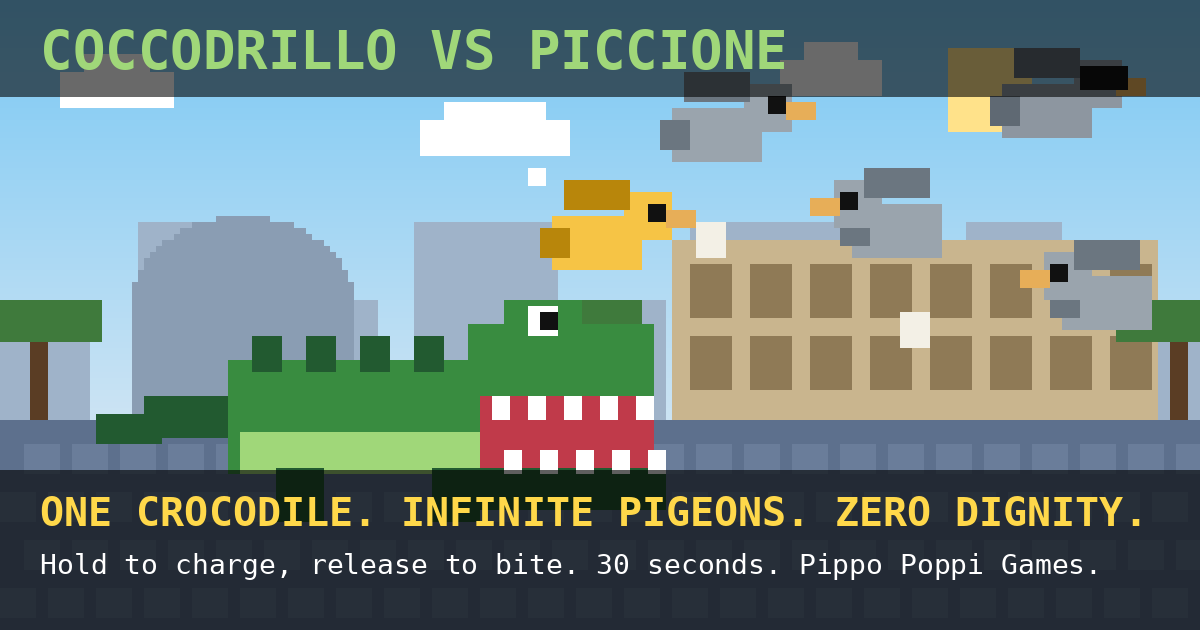
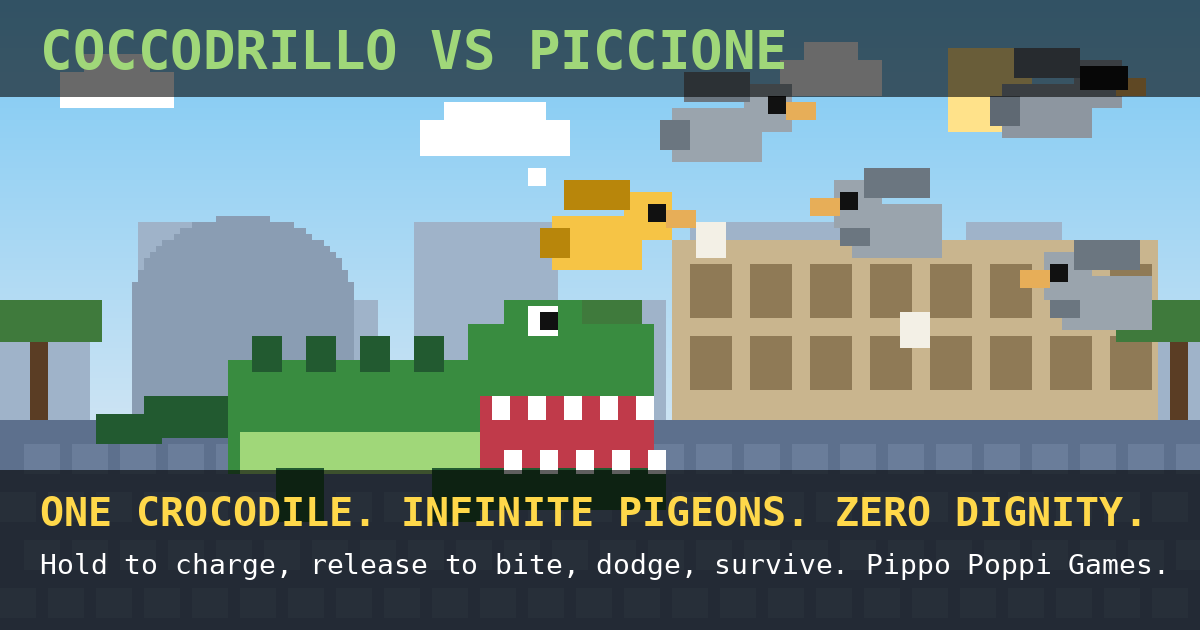
Survival mode: no round timer, difficulty ramps forever
The game ends only when the last heart is lost. Elapsed time replaces
the countdown, the inferno starts at 45s and never stops, and the
result screen and X challenge include time survived. Best time saved.

Changed region(s): [[0.4933, 0.8746, 0.9558, 0.9349]]

diff --git a/game.js b/game.js
@@ -1,4 +1,4 @@
-/* Coccodrillo vs Piccione — a 30-second one-button arcade game. Pippo Poppi Games. MIT licence. */
+/* Coccodrillo vs Piccione — a one-button survival arcade game. Pippo Poppi Games. MIT licence. */
 (() => {
 'use strict';
 
@@ -9,7 +9,8 @@ const GROUND = 302;            // where the crocodile stands
 const CROC_X = 100;            // starting x
 const CROC_S = 0.65;           // crocodile size
 const CROC_MIN = 24, CROC_MAX = W - 24;
-const ROUND = 30;              // seconds per game
+const RAMP = 60;               // seconds over which the difficulty climbs to full
+const INFERNO_AT = 45;         // seconds after which the inferno never stops
 const SAVE_KEY = 'crocvspigeon.v1';
 const SITE_URL = (location.origin + location.pathname).replace(/index\.html$/, '');
 const TAU = 6.2832;
@@ -25,7 +26,7 @@ const PIGEONS = {
 
 // ---------- save ----------
 function loadSave() {
-  const d = { best: 0, bestEaten: 0, games: 0, sound: true };
+  const d = { best: 0, bestEaten: 0, bestTime: 0, games: 0, sound: true };
   try { const s = JSON.parse(localStorage.getItem(SAVE_KEY)); if (s) Object.assign(d, s); } catch (e) { /* no storage */ }
   return d;
 }
@@ -72,14 +73,14 @@ function sfxBoss() { tone(90, 0.5, 'sawtooth', 0.08, 50); tone(70, 0.5, 'sawtoot
 
 // ---------- state ----------
 const G = {
-  state: 'title', t: 0, left: ROUND, score: 0, eaten: 0, combo: 0, best: 0, hearts: 3,
+  state: 'title', t: 0, score: 0, eaten: 0, combo: 0, best: 0, hearts: 3,
   croc: { x: CROC_X, y: GROUND, vy: 0, air: false, charge: 0, charging: false, mouth: 0, bite: 0, hurt: 0, ate: 0 },
   birds: [], poops: [], parts: [], floats: [], spawnT: 1.2, bossT: 14, bossDone: 0, shake: 0, flash: 0, lastTick: 31, inferno: false, msg: null, msgT: 0,
   clouds: Array.from({ length: 5 }, (_, i) => ({ x: i * 50 + rnd(0, 30), y: 20 + rnd(0, 50), w: 18 + rnd(0, 18) })),
 };
 
 function startGame() {
-  G.state = 'play'; G.t = 0; G.left = ROUND; G.score = 0; G.eaten = 0; G.combo = 0; G.hearts = 3;
+  G.state = 'play'; G.t = 0; G.score = 0; G.eaten = 0; G.combo = 0; G.hearts = 3;
   G.croc = { x: CROC_X, y: GROUND, vy: 0, air: false, charge: 0, charging: false, mouth: 0, bite: 0, hurt: 0, ate: 0 };
   G.birds = []; G.poops = []; G.parts = []; G.floats = []; G.spawnT = 0.6; G.bossT = 14; G.bossDone = 0; G.shake = 0; G.flash = 0; G.lastTick = 31; G.inferno = false; G.msg = null;
   save.games++; persist();
@@ -89,8 +90,8 @@ function startGame() {
 function spawnBird(type) {
   const P = PIGEONS[type];
   const fromLeft = Math.random() < 0.5;
-  const diff = G.t / ROUND;
-  const base = 38 + diff * 34 + (G.inferno ? 18 : 0);
+  const diff = Math.min(1, G.t / RAMP);
+  const base = 38 + diff * 34 + (G.inferno ? 18 : 0) + Math.min(30, Math.max(0, G.t - RAMP) * 0.25);
   const b = { type, x: fromLeft ? -20 : W + 20, dir: fromLeft ? 1 : -1, y: P.boss ? 120 : rnd(90, 240), baseY: 0, r: P.r, hp: P.hp, maxHp: P.hp,
     speed: base * P.speed * rnd(0.85, 1.15), ph: Math.random() * TAU, bombT: rnd(0.4, 1.2), dodgeT: 0, dead: false, hit: 0 };
   b.baseY = b.y;
@@ -99,7 +100,7 @@ function spawnBird(type) {
   else if (P.golden) { G.msg = 'PICCIONE D’ORO!'; G.msgT = 1.2; sfxGold(); }
 }
 function pickType() {
-  const r = Math.random(), late = G.t > ROUND * 0.4;
+  const r = Math.random(), late = G.t > 20;
   if (r < 0.03) return 'golden';
   if (r < (late ? 0.28 : 0.14)) return 'maranza';
   if (r < (late ? 0.5 : 0.3)) return 'bomber';
@@ -144,12 +145,12 @@ function hurt() {
 
 // ---------- simulation ----------
 function update(dt) {
-  G.t += dt; G.left -= dt;
+  G.t += dt;
   G.shake = Math.max(0, G.shake - dt * 3); G.flash = Math.max(0, G.flash - dt * 2);
   if (G.msgT > 0) { G.msgT -= dt; if (G.msgT <= 0) G.msg = null; }
   for (const cl of G.clouds) { cl.x += 3 * dt; if (cl.x > W + 30) cl.x = -40; }
-  if (!G.inferno && G.left <= 10) { G.inferno = true; G.msg = 'ULTIMI 10 SECONDI: INFERNO!'; G.msgT = 1.6; tone(200, 0.4, 'sawtooth', 0.07, 400); }
-  if (G.left <= 10 && Math.ceil(G.left) < G.lastTick) { G.lastTick = Math.ceil(G.left); sfxTick(); }
+  if (!G.inferno && G.t >= INFERNO_AT) { G.inferno = true; G.msg = 'INFERNO!'; G.msgT = 1.6; tone(200, 0.4, 'sawtooth', 0.07, 400); }
+  if (G.t >= INFERNO_AT - 5 && G.t < INFERNO_AT && Math.floor(G.t) > G.lastTick) { G.lastTick = Math.floor(G.t); sfxTick(); }
 
   // croc
   const c = G.croc;
@@ -167,8 +168,8 @@ function update(dt) {
   G.spawnT -= dt;
   if (G.spawnT <= 0) {
     spawnBird(pickType());
-    const diff = G.t / ROUND;
-    G.spawnT = (G.inferno ? 0.45 : 1.25 - diff * 0.6) * rnd(0.7, 1.3);
+    const diff = Math.min(1, G.t / RAMP);
+    G.spawnT = (G.inferno ? Math.max(0.3, 0.5 - (G.t - INFERNO_AT) * 0.003) : 1.25 - diff * 0.6) * rnd(0.7, 1.3);
   }
   G.bossT -= dt;
   if (G.bossT <= 0 && !G.birds.some(b => b.type === 'boss')) { spawnBird('boss'); G.bossT = 12; }
@@ -209,13 +210,13 @@ function update(dt) {
   for (let i = G.parts.length - 1; i >= 0; i--) { const p = G.parts[i]; p.life -= dt; if (p.life <= 0) { G.parts.splice(i, 1); continue; } p.x += p.vx * dt; p.y += p.vy * dt; p.vy += 200 * dt; }
   for (let i = G.floats.length - 1; i >= 0; i--) { const f = G.floats[i]; f.life -= dt; f.y -= 25 * dt; if (f.life <= 0) G.floats.splice(i, 1); }
 
-  if (G.hearts <= 0 || G.left <= 0) endGame();
+  if (G.hearts <= 0) endGame();
 }
 
 function endGame() {
-  G.state = 'over'; G.left = Math.max(0, G.left);
+  G.state = 'over';
   const newBest = G.score > save.best;
-  save.best = Math.max(save.best, G.score); save.bestEaten = Math.max(save.bestEaten, G.eaten); persist();
+  save.best = Math.max(save.best, G.score); save.bestEaten = Math.max(save.bestEaten, G.eaten); save.bestTime = Math.max(save.bestTime, G.t); persist();
   tone(newBest ? 660 : 160, 0.5, newBest ? 'triangle' : 'sawtooth', 0.07, newBest ? 990 : 60);
   showEnd(newBest);
 }
@@ -340,8 +341,8 @@ function draw() {
   R(0, 0, W, 14, 'rgba(0,0,0,0.55)');
   text('SCORE ' + String(G.score).padStart(5, '0'), 4, 3, '#fff', 8);
   for (let i = 0; i < 3; i++) text(i < G.hearts ? '♥' : '♡', 88 + i * 9, 2, i < G.hearts ? '#ff5e5e' : '#888', 9);
-  const sec = Math.max(0, Math.ceil(G.left));
-  text('00:' + String(sec).padStart(2, '0'), W - 4, 3, G.left <= 10 && Math.floor(t * 4) % 2 === 0 ? '#ff5e5e' : '#fff', 8, 'right');
+  const el = Math.floor(G.t), mm = Math.floor(el / 60), ss = el % 60;
+  text(String(mm).padStart(2, '0') + ':' + String(ss).padStart(2, '0'), W - 4, 3, G.inferno && Math.floor(t * 4) % 2 === 0 ? '#ff5e5e' : '#fff', 8, 'right');
   if (G.state === 'play') {
     const mult = Math.min(5, 1 + Math.floor(G.combo / 5));
     R(0, H - 14, W, 14, 'rgba(0,0,0,0.55)');
@@ -352,7 +353,8 @@ function draw() {
   if (G.state === 'title') {
     R(0, 100, W, 60, 'rgba(0,0,0,0.6)');
     text('COCCODRILLO', W / 2, 106, '#a0d779', 14, 'center'); text('VS PICCIONE', W / 2, 122, '#fff', 14, 'center');
-    text('TAP TO START', W / 2, 146, Math.floor(t * 2) % 2 === 0 ? '#ffd84a' : '#fff', 8, 'center');
+    text('SURVIVE. EAT. DODGE.', W / 2, 138, '#9fb3c9', 7, 'center');
+    text('TAP TO START', W / 2, 149, Math.floor(t * 2) % 2 === 0 ? '#ffd84a' : '#fff', 8, 'center');
   }
   // present: scale up with crisp pixels
   ctx.imageSmoothingEnabled = false;
@@ -392,14 +394,16 @@ window.addEventListener('keyup', e => {
 const $ = id => document.getElementById(id);
 function showScreen(id) { document.querySelectorAll('.screen').forEach(s => s.classList.toggle('hidden', s.id !== id)); }
 function challengeText() {
-  return 'Ho mangiato ' + G.eaten + ' piccioni e fatto ' + G.score.toLocaleString() + ' punti in Coccodrillo vs Piccione 🐊🐦 Battimi: ' + SITE_URL + ' #CoccodrilloVsPiccione #PippoPoppiGames';
+  return 'Sono sopravvissuto ' + fmtTime(G.t) + ', ho mangiato ' + G.eaten + ' piccioni e fatto ' + G.score.toLocaleString() + ' punti in Coccodrillo vs Piccione 🐊🐦 Battimi: ' + SITE_URL + ' #CoccodrilloVsPiccione #PippoPoppiGames';
 }
+function fmtTime(t) { const el = Math.floor(t); return (el >= 60 ? Math.floor(el / 60) + 'm ' : '') + (el % 60) + 's'; }
 function showEnd(newBest) {
-  $('end-title').textContent = G.hearts > 0 ? (G.eaten >= 25 ? 'APEX PREDATOR. 🐊' : 'TIME’S UP. 🐦') : 'YOU GOT PIGEONED. 🐦';
+  $('end-title').textContent = G.t >= 90 ? 'APEX PREDATOR. 🐊' : 'YOU GOT PIGEONED. 🐦';
+  $('end-time').textContent = fmtTime(G.t);
   $('end-score').textContent = G.score.toLocaleString();
   $('end-eaten').textContent = G.eaten;
-  $('end-best').textContent = (newBest ? 'NEW RECORD! ' : 'Record: ' + save.best.toLocaleString() + ' · ') + 'Partite: ' + save.games;
-  $('end-tag').textContent = G.hearts > 0 ? (G.eaten >= 25 ? 'Roma è tua. I piccioni lo sanno.' : 'Non male. I piccioni ridono comunque.') : 'You are not the apex predator. You are the lunch.';
+  $('end-best').textContent = (newBest ? 'NEW RECORD! ' : 'Record: ' + save.best.toLocaleString() + ' · ') + 'Miglior tempo: ' + fmtTime(save.bestTime) + ' · Partite: ' + save.games;
+  $('end-tag').textContent = G.t >= 90 ? 'Roma è tua. I piccioni lo sanno.' : G.t >= 45 ? 'Hai visto l’inferno. L’inferno ha visto te.' : 'You are not the apex predator. You are the lunch.';
   $('btn-share').href = 'https://twitter.com/intent/tweet?text=' + encodeURIComponent(challengeText().replace(SITE_URL, '')) + '&url=' + encodeURIComponent(SITE_URL);
   $('btn-copy').textContent = 'COPY X CHALLENGE';
   showScreen('end');

diff --git a/index.html b/index.html
@@ -4,19 +4,19 @@
 <meta charset="utf-8">
 <meta name="viewport" content="width=device-width, initial-scale=1, maximum-scale=1, user-scalable=no, viewport-fit=cover">
 <title>Coccodrillo vs Piccione</title>
-<meta name="description" content="Un coccodrillo gigante nel centro di Roma contro un esercito di piccioni arroganti. Tieni premuto, rilascia, mordi. 30 secondi. Zero dignità. Pippo Poppi Games.">
+<meta name="description" content="Un coccodrillo gigante nel centro di Roma contro un esercito di piccioni arroganti. Tieni premuto, rilascia, mordi, schiva. Sopravvivi il più a lungo possibile. Zero dignità. Pippo Poppi Games.">
 <link rel="canonical" href="https://pippopoppi.github.io/croc-vs-pigeon/">
 <meta property="og:type" content="website">
 <meta property="og:site_name" content="Pippo Poppi Games">
 <meta property="og:title" content="Coccodrillo vs Piccione 🐊🐦">
-<meta property="og:description" content="One crocodile. Infinite pigeons. Zero dignity. Hold to charge, release to bite, survive 30 seconds of Roman pigeon poop. Play free, then challenge your friends on X.">
+<meta property="og:description" content="One crocodile. Infinite pigeons. Zero dignity. Hold to charge, release to bite, dodge the droppings, survive as long as you can. Play free, then challenge your friends on X.">
 <meta property="og:url" content="https://pippopoppi.github.io/croc-vs-pigeon/">
 <meta property="og:image" content="https://pippopoppi.github.io/croc-vs-pigeon/og.png">
 <meta property="og:image:width" content="1200">
 <meta property="og:image:height" content="630">
 <meta name="twitter:card" content="summary_large_image">
 <meta name="twitter:title" content="Coccodrillo vs Piccione 🐊🐦">
-<meta name="twitter:description" content="One crocodile. Infinite pigeons. Zero dignity. Hold to charge, release to bite, survive 30 seconds of Roman pigeon poop. Play free, then challenge your friends on X.">
+<meta name="twitter:description" content="One crocodile. Infinite pigeons. Zero dignity. Hold to charge, release to bite, dodge the droppings, survive as long as you can. Play free, then challenge your friends on X.">
 <meta name="twitter:image" content="https://pippopoppi.github.io/croc-vs-pigeon/og.png">
 <meta name="theme-color" content="#79c8f3">
 <meta name="apple-mobile-web-app-capable" content="yes">
@@ -52,6 +52,8 @@
   <div id="end" class="screen hidden">
     <div class="brand">PIPPO POPPI GAMES — FINAL RESULT</div>
     <h2 id="end-title">YOU GOT PIGEONED. 🐦</h2>
+    <div class="label">TIME SURVIVED</div>
+    <div class="big white" id="end-time">0s</div>
     <div class="label">FINAL SCORE</div>
     <div class="big" id="end-score">0</div>
     <div class="label">PIGEONS EATEN</div>

diff --git a/tools/make_og.py b/tools/make_og.py
@@ -86,7 +86,7 @@ def card():
     d.text((40, 18), "COCCODRILLO VS PICCIONE", font=font(54), fill="#a0d779")
     d.rectangle((0, 470, W, 630), fill=(0, 0, 0, 160))
     d.text((40, 488), "ONE CROCODILE. INFINITE PIGEONS. ZERO DIGNITY.", font=font(40), fill="#ffd84a")
-    d.text((40, 548), "Hold to charge, release to bite. 30 seconds. Pippo Poppi Games.", font=font(28, bold=False), fill="#fff")
+    d.text((40, 548), "Hold to charge, release to bite, dodge, survive. Pippo Poppi Games.", font=font(28, bold=False), fill="#fff")
     img.save(os.path.join(ROOT, "og.png"), optimize=True)
     print("wrote og.png")
 

diff --git a/README.md b/README.md
@@ -2,7 +2,7 @@
 
 **ONE CROCODILE. INFINITE PIGEONS. ZERO DIGNITY.**
 
-A 30-second, one-button arcade game by Pippo Poppi Games. A giant crocodile in the middle of Rome versus an army of arrogant Roman pigeons bombing it from above.
+A one-button survival arcade game by Pippo Poppi Games. A giant crocodile in the middle of Rome versus an army of arrogant Roman pigeons bombing it from above.
 
 **Play it:** https://pippopoppi.github.io/croc-vs-pigeon/
 
@@ -14,8 +14,8 @@ No install, no menus, no login, no tutorial. One HTML page plus one JavaScript f
 - **Slide** the same finger left or right to move the crocodile, on the ground or in the air, to get under a pigeon or out from under a dropping. Arrow keys or A/D on desktop.
 - The longer you charge, the higher you jump. Time it to intercept pigeons while dodging what they drop.
 - Every pigeon is 100 points. Consecutive catches raise the combo multiplier (up to ×5). A jump with no catch, or a hit, resets it.
-- Each poop takes one of your three hearts. After 30 seconds, or when the hearts are gone, the game ends.
-- Speed ramps up all the time. The last ten seconds are the INFERNO.
+- Each poop takes one of your three hearts. When the hearts are gone, the game ends. There is no clock: survive as long as you can.
+- Speed ramps up all the time. After 45 seconds the INFERNO starts and never stops.
 
 ## The brainrot
 
@@ -24,7 +24,7 @@ No install, no menus, no login, no tutorial. One HTML page plus one JavaScript f
 - **Italian combo**: five catches in a row and a distorted tarantella plays.
 - **Final boss**: a giant pigeon shows up as a special event, needs three bites, drops a storm of poop, and gives a heart back when eaten.
 
-At the end you get the **FINAL RESULT** screen: YOU GOT PIGEONED, score, pigeons eaten, and a **Copy X challenge** button that puts a ready-made challenge in your clipboard, plus a direct post-to-X button.
+At the end you get the **FINAL RESULT** screen: YOU GOT PIGEONED, time survived, score, pigeons eaten, and a **Copy X challenge** button that puts a ready-made challenge in your clipboard, plus a direct post-to-X button.
 
 ## Running locally
 
